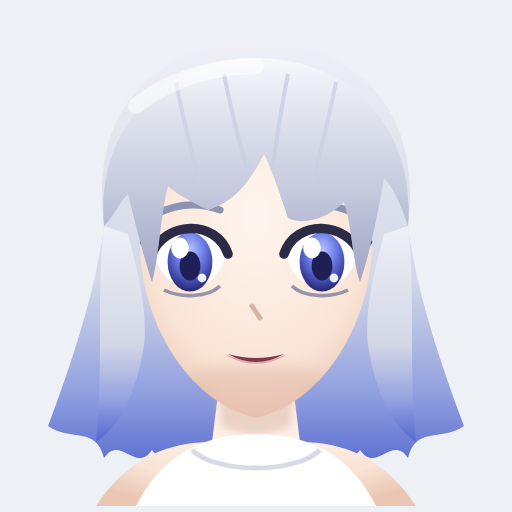
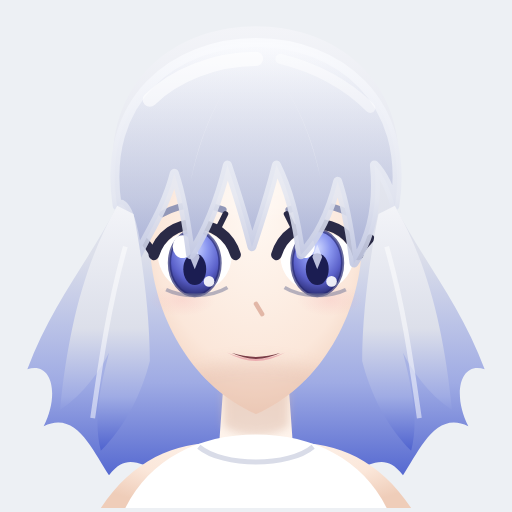
v1.6.2: wajah anime lebih mirip referensi (poni lembut, mata lebih besar, rambut mengembang)
Claude-Session: https://claude.ai/code/session_01MYJwr1VfoWsd2GyhHBrFqM

diff --git a/index.html b/index.html
@@ -133,77 +133,87 @@ textarea{flex:1;min-width:0;resize:none;border:1px solid var(--line);border-radi
     <div class="ring" id="ring">
       <svg class="face" id="face" viewBox="0 0 120 120" role="img" aria-label="Wajah Nara">
         <defs>
-          <radialGradient id="skinG" cx="50%" cy="35%" r="70%"><stop offset="0" stop-color="#fff6ef"/><stop offset=".7" stop-color="#f9e4d6"/><stop offset="1" stop-color="#eac6b3"/></radialGradient>
-          <linearGradient id="hairBack" x1="0" y1="0" x2="0" y2="1"><stop offset="0" stop-color="#eef0f6"/><stop offset=".55" stop-color="#d3d7e6"/><stop offset=".8" stop-color="#95a3e0"/><stop offset="1" stop-color="#5468cf"/></linearGradient>
-          <linearGradient id="hairFront" x1="0" y1="0" x2="0" y2="1"><stop offset="0" stop-color="#f7f8fc"/><stop offset=".6" stop-color="#dfe2ee"/><stop offset="1" stop-color="#b7bedc"/></linearGradient>
-          <linearGradient id="hairShade" x1="0" y1="0" x2="0" y2="1"><stop offset="0" stop-color="#9aa0bd" stop-opacity="0"/><stop offset="1" stop-color="#8a90b4" stop-opacity=".55"/></linearGradient>
-          <radialGradient id="irisG" cx="50%" cy="30%" r="70%"><stop offset="0" stop-color="#b7c3ff"/><stop offset=".45" stop-color="#6d7ce6"/><stop offset=".8" stop-color="#3f44a6"/><stop offset="1" stop-color="#262866"/></radialGradient>
-          <radialGradient id="blushG"><stop offset="0" stop-color="#f29aa0" stop-opacity=".55"/><stop offset="1" stop-color="#f29aa0" stop-opacity="0"/></radialGradient>
+          <radialGradient id="skinG" cx="50%" cy="35%" r="70%"><stop offset="0" stop-color="#fff8f2"/><stop offset=".7" stop-color="#fbe7da"/><stop offset="1" stop-color="#efcdb9"/></radialGradient>
+          <linearGradient id="hairBack" x1="0" y1="0" x2="0" y2="1"><stop offset="0" stop-color="#f3f4f8"/><stop offset=".5" stop-color="#dcdfea"/><stop offset=".78" stop-color="#9fabe4"/><stop offset="1" stop-color="#4f63cf"/></linearGradient>
+          <linearGradient id="hairFront" x1="0" y1="0" x2="0" y2="1"><stop offset="0" stop-color="#fafbfe"/><stop offset=".7" stop-color="#e4e7f1"/><stop offset="1" stop-color="#c3c9e3"/></linearGradient>
+          <linearGradient id="strandDark" x1="0" y1="0" x2="0" y2="1"><stop offset="0" stop-color="#b9bfd8" stop-opacity="0"/><stop offset="1" stop-color="#9aa3cf" stop-opacity=".7"/></linearGradient>
+          <radialGradient id="irisG" cx="50%" cy="28%" r="72%"><stop offset="0" stop-color="#cfd8ff"/><stop offset=".35" stop-color="#8b97f0"/><stop offset=".7" stop-color="#5a60c9"/><stop offset="1" stop-color="#2a2c74"/></radialGradient>
+          <radialGradient id="blushG"><stop offset="0" stop-color="#f4a0a8" stop-opacity=".6"/><stop offset="1" stop-color="#f4a0a8" stop-opacity="0"/></radialGradient>
           <filter id="soft" x="-30%" y="-30%" width="160%" height="160%"><feGaussianBlur stdDeviation="2"/></filter>
           <filter id="soft1" x="-30%" y="-30%" width="160%" height="160%"><feGaussianBlur stdDeviation="1"/></filter>
-          <clipPath id="faceClip"><path d="M60 20 C79 20 89 35 89 54 C89 74 77 94 60 98 C43 94 31 74 31 54 C31 35 41 20 60 20 Z"/></clipPath>
+          <clipPath id="faceClip"><path d="M60 22 C77 22 86 36 86 54 C86 72 76 90 60 97 C44 90 34 72 34 54 C34 36 43 22 60 22 Z"/></clipPath>
         </defs>
         <g class="face-float">
-          <!-- rambut belakang panjang bergelombang -->
-          <path d="M22 50 C18 18 38 4 60 4 C82 4 102 18 98 50 C100 66 106 84 112 100 C106 104 100 100 98 108 C94 102 90 112 86 106 C80 114 74 104 70 112 L50 112 C46 104 40 114 34 106 C30 112 26 102 22 108 C20 100 14 104 8 100 C14 84 20 66 22 50 Z" fill="url(#hairBack)"/>
-          <!-- leher & kaus -->
-          <path d="M51 88 L69 88 L71 104 C82 104 92 108 100 120 L20 120 C28 108 38 104 49 104 Z" fill="url(#skinG)"/>
-          <path d="M51 88 L69 88 L69 100 C64 103 56 103 51 100 Z" fill="#d9b7a4" opacity=".55" filter="url(#soft1)"/>
-          <path d="M30 120 C36 108 46 102 60 102 C74 102 84 108 90 120 Z" fill="#ffffff"/>
-          <path d="M44 106 C50 112 70 112 76 106" fill="none" stroke="#d8dbe6" stroke-width="1.2"/>
-          <!-- wajah -->
-          <path d="M60 20 C79 20 89 35 89 54 C89 74 77 94 60 98 C43 94 31 74 31 54 C31 35 41 20 60 20 Z" fill="url(#skinG)"/>
+          <!-- rambut belakang: tebal, mengembang, ujung runcing -->
+          <path d="M26 46 C20 16 40 2 60 2 C80 2 100 16 94 46 C100 58 110 70 116 86 C110 84 108 92 112 100 C104 96 100 106 96 112 C90 104 86 114 80 108 C76 116 70 108 66 114 L54 114 C50 108 44 116 40 108 C34 114 30 104 24 112 C20 106 16 96 8 100 C12 92 10 84 4 86 C10 70 20 58 26 46 Z" fill="url(#hairBack)"/>
+          <!-- leher & kaus putih -->
+          <path d="M52 90 L68 90 L69 104 C80 104 90 108 98 120 L22 120 C30 108 40 104 51 104 Z" fill="url(#skinG)"/>
+          <path d="M52 90 L68 90 L68 100 C64 103 56 103 52 100 Z" fill="#dcb8a6" opacity=".5" filter="url(#soft1)"/>
+          <path d="M28 120 C34 108 46 102 60 102 C74 102 86 108 92 120 Z" fill="#ffffff"/>
+          <path d="M46 105 C52 110 68 110 74 105" fill="none" stroke="#d9dce8" stroke-width="1.2"/>
+          <!-- wajah tirus, dagu lancip -->
+          <path d="M60 22 C77 22 86 36 86 54 C86 72 76 90 60 97 C44 90 34 72 34 54 C34 36 43 22 60 22 Z" fill="url(#skinG)"/>
           <g clip-path="url(#faceClip)">
-            <ellipse cx="60" cy="94" rx="24" ry="9" fill="#d9a994" opacity=".35" filter="url(#soft)"/>
-            <path d="M31 44 C38 32 48 26 60 26 C72 26 82 32 89 44 L89 28 L31 28 Z" fill="#8f94b6" opacity=".35" filter="url(#soft)"/>
+            <ellipse cx="60" cy="93" rx="22" ry="9" fill="#dcae9c" opacity=".3" filter="url(#soft)"/>
+            <path d="M34 46 C40 34 50 28 60 28 C70 28 80 34 86 46 L86 28 L34 28 Z" fill="#9aa1c4" opacity=".35" filter="url(#soft)"/>
+            <ellipse cx="60" cy="40" rx="18" ry="8" fill="#ffffff" opacity=".25" filter="url(#soft)"/>
           </g>
-          <!-- pipi merona -->
-          <ellipse class="cheek" data-k="cheekL" cx="40" cy="70" rx="9" ry="5" fill="url(#blushG)" opacity="0"/>
-          <ellipse class="cheek" data-k="cheekR" cx="80" cy="70" rx="9" ry="5" fill="url(#blushG)" opacity="0"/>
-          <!-- hidung kecil -->
-          <path d="M59 70 L61 73" fill="none" stroke="#d6a391" stroke-width="1.2" stroke-linecap="round" opacity=".8"/>
+          <!-- rona di bawah mata -->
+          <ellipse class="cheek" data-k="cheekL" cx="42" cy="69" rx="8" ry="4" fill="url(#blushG)" opacity=".35"/>
+          <ellipse class="cheek" data-k="cheekR" cx="78" cy="69" rx="8" ry="4" fill="url(#blushG)" opacity=".35"/>
+          <!-- hidung mungil -->
+          <path d="M60 70 L61.5 72.5" fill="none" stroke="#dba997" stroke-width="1.1" stroke-linecap="round" opacity=".8"/>
           <!-- alis tipis -->
-          <path class="brow" data-k="browL" d="M35 47 Q43 43 51 46" stroke="#8d93b3" stroke-width="1.8" stroke-linecap="round" fill="none"/>
-          <path class="brow" data-k="browR" d="M69 46 Q77 43 85 47" stroke="#8d93b3" stroke-width="1.8" stroke-linecap="round" fill="none"/>
-          <!-- mata anime besar -->
+          <path class="brow" data-k="browL" d="M37 48 Q44 44 52 47" stroke="#9398b8" stroke-width="1.6" stroke-linecap="round" fill="none"/>
+          <path class="brow" data-k="browR" d="M68 47 Q76 44 83 48" stroke="#9398b8" stroke-width="1.6" stroke-linecap="round" fill="none"/>
+          <!-- mata besar, lembut -->
           <g class="eye" data-k="eyeL">
-            <path d="M35 58 C37 50 50 49 52 58 C51 67 37 68 35 58 Z" fill="#ffffff"/>
+            <path d="M36 59 C38 50 52 50 54 59 C53 69 38 70 36 59 Z" fill="#ffffff"/>
             <g class="pupil" data-k="pupL">
-              <ellipse cx="43.5" cy="59" rx="5.6" ry="7.4" fill="url(#irisG)"/>
-              <ellipse cx="43.5" cy="60" rx="2.6" ry="3.6" fill="#1d1f55"/>
-              <ellipse cx="41" cy="55.5" rx="2.2" ry="2.6" fill="#ffffff"/>
-              <circle cx="46.5" cy="63" r="1.1" fill="#ffffff" opacity=".9"/>
+              <ellipse cx="45" cy="60" rx="6.2" ry="8" fill="url(#irisG)"/>
+              <ellipse cx="45" cy="60" rx="6.2" ry="8" fill="none" stroke="#2a2c74" stroke-width=".8" opacity=".7"/>
+              <ellipse cx="45" cy="61.5" rx="2.8" ry="3.9" fill="#1b1d52"/>
+              <path d="M45 55.5 L46.2 58.5 L45 61.5 L43.8 58.5 Z" fill="#e3e8ff" opacity=".8"/>
+              <ellipse cx="42" cy="56" rx="2.4" ry="2.8" fill="#ffffff"/>
+              <circle cx="48.5" cy="64.5" r="1.3" fill="#ffffff" opacity=".9"/>
             </g>
-            <path d="M34 57 C37 49 50 48 53 57" fill="none" stroke="#2b2b45" stroke-width="2.4" stroke-linecap="round"/>
-            <path d="M34 57 L32 54" fill="none" stroke="#2b2b45" stroke-width="2" stroke-linecap="round"/>
-            <path d="M38 65 C41 66.5 47 66.5 50 64.5" fill="none" stroke="#6d6f8f" stroke-width=".8" opacity=".5"/>
+            <path d="M35 58 C38 48 52 48 55 58" fill="none" stroke="#2a2a46" stroke-width="2.6" stroke-linecap="round"/>
+            <path d="M35 58 C34 56 33 55 32 54" fill="none" stroke="#2a2a46" stroke-width="2" stroke-linecap="round"/>
+            <path d="M51 51 L52.5 48" fill="none" stroke="#2a2a46" stroke-width="1.4" stroke-linecap="round"/>
+            <path d="M38 66.5 C42 68.5 49 68.5 53 66" fill="none" stroke="#7a7d9c" stroke-width=".9" opacity=".55"/>
           </g>
           <g class="eye" data-k="eyeR">
-            <path d="M68 58 C70 49 83 50 85 58 C83 68 69 67 68 58 Z" fill="#ffffff"/>
+            <path d="M66 59 C68 50 82 50 84 59 C82 70 67 69 66 59 Z" fill="#ffffff"/>
             <g class="pupil" data-k="pupR">
-              <ellipse cx="76.5" cy="59" rx="5.6" ry="7.4" fill="url(#irisG)"/>
-              <ellipse cx="76.5" cy="60" rx="2.6" ry="3.6" fill="#1d1f55"/>
-              <ellipse cx="74" cy="55.5" rx="2.2" ry="2.6" fill="#ffffff"/>
-              <circle cx="79.5" cy="63" r="1.1" fill="#ffffff" opacity=".9"/>
+              <ellipse cx="75" cy="60" rx="6.2" ry="8" fill="url(#irisG)"/>
+              <ellipse cx="75" cy="60" rx="6.2" ry="8" fill="none" stroke="#2a2c74" stroke-width=".8" opacity=".7"/>
+              <ellipse cx="75" cy="61.5" rx="2.8" ry="3.9" fill="#1b1d52"/>
+              <path d="M75 55.5 L76.2 58.5 L75 61.5 L73.8 58.5 Z" fill="#e3e8ff" opacity=".8"/>
+              <ellipse cx="72" cy="56" rx="2.4" ry="2.8" fill="#ffffff"/>
+              <circle cx="78.5" cy="64.5" r="1.3" fill="#ffffff" opacity=".9"/>
             </g>
-            <path d="M67 57 C70 48 83 49 86 57" fill="none" stroke="#2b2b45" stroke-width="2.4" stroke-linecap="round"/>
-            <path d="M86 57 L88 54" fill="none" stroke="#2b2b45" stroke-width="2" stroke-linecap="round"/>
-            <path d="M70 64.5 C73 66.5 79 66.5 82 65" fill="none" stroke="#6d6f8f" stroke-width=".8" opacity=".5"/>
+            <path d="M65 58 C68 48 82 48 85 58" fill="none" stroke="#2a2a46" stroke-width="2.6" stroke-linecap="round"/>
+            <path d="M85 58 C86 56 87 55 88 54" fill="none" stroke="#2a2a46" stroke-width="2" stroke-linecap="round"/>
+            <path d="M69 51 L67.5 48" fill="none" stroke="#2a2a46" stroke-width="1.4" stroke-linecap="round"/>
+            <path d="M67 66 C71 68.5 78 68.5 82 66.5" fill="none" stroke="#7a7d9c" stroke-width=".9" opacity=".55"/>
           </g>
           <!-- bibir kecil & mulut -->
-          <path class="lips" data-k="lips" d="M52 82 Q60 87 68 82 Q60 85 52 82 Z" fill="#e9a3a8" opacity=".9"/>
-          <path class="mouth" data-k="mouth" d="M53 82 Q60 86 67 82 Q60 84 53 82 Z" fill="#7a3b46"/>
-          <!-- rambut depan: poni berlapis + helai samping -->
-          <path d="M22 50 C20 26 36 8 60 8 C84 8 100 26 98 50 C96 44 94 40 92 38 C90 50 88 58 86 64 C84 58 84 50 82 44 C78 48 72 50 68 48 C66 42 64 36 62 32 C58 40 54 44 48 46 C44 44 40 42 38 40 C36 48 36 56 34 64 C32 58 30 50 28 42 C26 44 24 48 22 50 Z" fill="url(#hairFront)"/>
-          <path d="M22 50 C20 26 36 8 60 8 C84 8 100 26 98 50 C96 44 94 40 92 38 C90 50 88 58 86 64 C84 58 84 50 82 44 C78 48 72 50 68 48 C66 42 64 36 62 32 C58 40 54 44 48 46 C44 44 40 42 38 40 C36 48 36 56 34 64 C32 58 30 50 28 42 C26 44 24 48 22 50 Z" fill="url(#hairShade)"/>
-          <path d="M52 12 C54 22 56 30 58 36" fill="none" stroke="#c9cee2" stroke-width="1" opacity=".8"/>
-          <path d="M68 12 C66 22 65 30 64 36" fill="none" stroke="#c9cee2" stroke-width="1" opacity=".8"/>
-          <path d="M40 14 C42 24 44 32 46 40" fill="none" stroke="#c9cee2" stroke-width="1" opacity=".7"/>
-          <path d="M80 14 C78 24 76 32 74 40" fill="none" stroke="#c9cee2" stroke-width="1" opacity=".7"/>
-          <path d="M30 20 C40 12 52 10 60 10" fill="none" stroke="#ffffff" stroke-width="4" stroke-linecap="round" opacity=".55"/>
-          <!-- helai samping panjang di depan telinga -->
-          <path d="M22 50 C20 66 22 84 20 104 C26 100 30 92 32 80 C33 70 30 60 28 52 Z" fill="url(#hairBack)"/>
-          <path d="M98 50 C100 66 98 84 100 104 C94 100 90 92 88 80 C87 70 90 60 92 52 Z" fill="url(#hairBack)"/>
+          <path class="lips" data-k="lips" d="M53 82 Q60 86 67 82 Q60 85 53 82 Z" fill="#eaa7ad" opacity=".9"/>
+          <path class="mouth" data-k="mouth" d="M54 82 Q60 85 66 82 Q60 84 54 82 Z" fill="#7a3b46"/>
+          <!-- poni: berbelah tengah, helai runcing mengarah ke mata -->
+          <path d="M26 46 C22 20 40 6 60 6 C80 6 98 20 94 46 C93 42 91 38 89 36 C90 46 88 54 84 60 C83 52 82 46 80 40 C78 48 75 54 71 58 C70 50 68 42 65 36 C63 44 61 50 59 56 C57 48 55 42 53 36 C51 44 48 52 44 58 C43 50 42 44 40 38 C38 46 34 52 31 58 C30 50 28 44 26 46 Z" fill="url(#hairFront)"/>
+          <path d="M26 46 C22 20 40 6 60 6 C80 6 98 20 94 46 C93 42 91 38 89 36 C90 46 88 54 84 60 C83 52 82 46 80 40 C78 48 75 54 71 58 C70 50 68 42 65 36 C63 44 61 50 59 56 C57 48 55 42 53 36 C51 44 48 52 44 58 C43 50 42 44 40 38 C38 46 34 52 31 58 C30 50 28 44 26 46 Z" fill="url(#strandDark)"/>
+          <path d="M26 46 C22 20 40 6 60 6 C80 6 98 20 94 46 C93 42 91 38 89 36 C90 46 88 54 84 60 C83 52 82 46 80 40 C78 48 75 54 71 58 C70 50 68 42 65 36 C63 44 61 50 59 56 C57 48 55 42 53 36 C51 44 48 52 44 58 C43 50 42 44 40 38 C38 46 34 52 31 58 C30 50 28 44 26 46 Z" fill="none" stroke="url(#hairFront)" stroke-width="2.2" stroke-linejoin="round" stroke-linecap="round" opacity=".9"/>
+          <!-- helai poni tambahan yang menyilang -->
+          <path d="M60 8 C52 16 47 26 44 40 C46 30 50 18 60 8 Z" fill="#ffffff" opacity=".5"/>
+          <path d="M60 8 C68 16 73 26 76 40 C74 30 70 18 60 8 Z" fill="#ffffff" opacity=".5"/>
+          <path d="M34 20 C40 14 50 10 60 10" fill="none" stroke="#ffffff" stroke-width="3.5" stroke-linecap="round" opacity=".6"/>
+          <path d="M66 10 C74 12 82 16 88 22" fill="none" stroke="#ffffff" stroke-width="2.5" stroke-linecap="round" opacity=".45"/>
+          <!-- helai samping tebal di depan, mengembang ke luar -->
+          <path d="M26 46 C18 60 14 76 12 96 C18 92 22 86 24 82 C22 90 20 98 22 106 C28 100 32 92 34 84 C34 72 32 58 30 48 Z" fill="url(#hairBack)"/>
+          <path d="M94 46 C102 60 106 76 108 96 C102 92 98 86 96 82 C98 90 100 98 98 106 C92 100 88 92 86 84 C86 72 88 58 90 48 Z" fill="url(#hairBack)"/>
+          <path d="M28 56 C24 70 22 84 20 98" fill="none" stroke="#ffffff" stroke-width="1.2" opacity=".5"/>
+          <path d="M92 56 C96 70 98 84 100 98" fill="none" stroke="#ffffff" stroke-width="1.2" opacity=".5"/>
         </g>
       </svg>
     </div>
@@ -311,7 +321,7 @@ textarea{flex:1;min-width:0;resize:none;border:1px solid var(--line);border-radi
 <script>
 (function(){
 'use strict';
-const APP_VER='1.6.0';
+const APP_VER='1.6.2';
 const $=id=>document.getElementById(id);
 const col=$('col'), main=$('main'), input=$('input'), sendBtn=$('sendBtn'), hint=$('hint');
 
@@ -386,7 +396,7 @@ function applyFace(name){
     el.browR.style.transform=`rotate(${e.brow[1]}deg) translateY(${e.brow[2]}px)`;
     el.eyeL.style.transform=el.eyeR.style.transform=`scaleY(${e.eye})`;
     el.pupL.style.transform=el.pupR.style.transform=`translate(${e.pupil[0]}px,${e.pupil[1]}px)`;
-    el.cheekL.style.opacity=el.cheekR.style.opacity=e.cheek;
+    el.cheekL.style.opacity=el.cheekR.style.opacity=Math.max(.3,e.cheek);
     if(!talking){ el.mouth.setAttribute('d',mouthPath(e.mouth,0)); el.lips&&el.lips.setAttribute('d',lipsPath(e.mouth,0)); }
   });
 }
